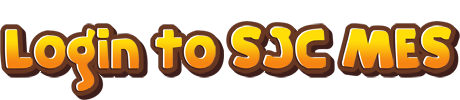
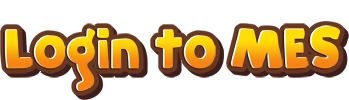
1103 로고 수정.

diff --git a/sjc/src/main/resources/templates/common/fragments/default_sidebar.html b/sjc/src/main/resources/templates/common/fragments/default_sidebar.html
@@ -3,10 +3,13 @@
 <th:block th:fragment="defaultSidebar">
 	<div class="left-side-bar">
 		<div class="brand-logo">
-			<a href="/main"> <img
-				th:src="@{/assets/vendors/images/deskapp-logo.svg}" alt="" class="dark-logo"> <img
-				th:src="@{/assets/vendors/images/deskapp-logo-white.svg}" alt="" class="light-logo">
+			<a href="/main"> 
+        		<img style="max-width: 100%" th:src="@{/assets/images/logo.png}" alt="SJC">
 			</a>
+				<!-- 
+				<img th:src="@{/assets/vendors/images/deskapp-logo.svg}" alt="" class="dark-logo"> 
+				<img th:src="@{/assets/vendors/images/deskapp-logo-white.svg}" alt="" class="light-logo">
+				 -->
 			<div class="close-sidebar" data-toggle="left-sidebar-close">
 				<i class="ion-close-round"></i>
 			</div>

diff --git a/sjc/src/main/resources/templates/logins.html b/sjc/src/main/resources/templates/logins.html
@@ -35,8 +35,11 @@
 	<div class="login-header box-shadow">
 		<div class="container-fluid d-flex justify-content-between align-items-center">
 			<div class="brand-logo">
-				<a href="logins.html">
+				<a href="">
+					<!-- 
 					<img th:src="@{assets/vendors/images/deskapp-logo.svg}" alt="">
+					 -->
+					<img th:src="@{assets/images/logo.png}" alt="SJC">
 				</a>
 			</div>
 			<div class="login-menu">
@@ -80,7 +83,7 @@
 									<span class="input-group-text"><i class="dw dw-padlock1"></i></span>
 								</div>
 							</div>
-							<div class="row pb-20">
+							<div class="row pb-0">
 							<!-- 
 								<div class="col-6">
 									<div class="custom-control custom-checkbox">

diff --git a/sjc/src/main/resources/templates/common/fragments/default_header.html b/sjc/src/main/resources/templates/common/fragments/default_header.html
@@ -6,10 +6,11 @@
 <th:block th:fragment="defaultHeader">
 	<div class="header">
 		<div class="header-left">
-			<img class="h-100 ml-4 pl-2" th:src="@{assets/images/mes.png}" alt="">
-			
 			<div class="menu-icon dw dw-menu"></div>
+			<img class="h-100 ml-4 pl-2" th:src="@{assets/images/mes.png}" alt="">
+			<!-- 
 			<div class="search-toggle-icon dw dw-search2" data-toggle="header_search"></div>
+			 -->
 			<div class="header-search">
 				<form>
 					<div class="form-group mb-0">
